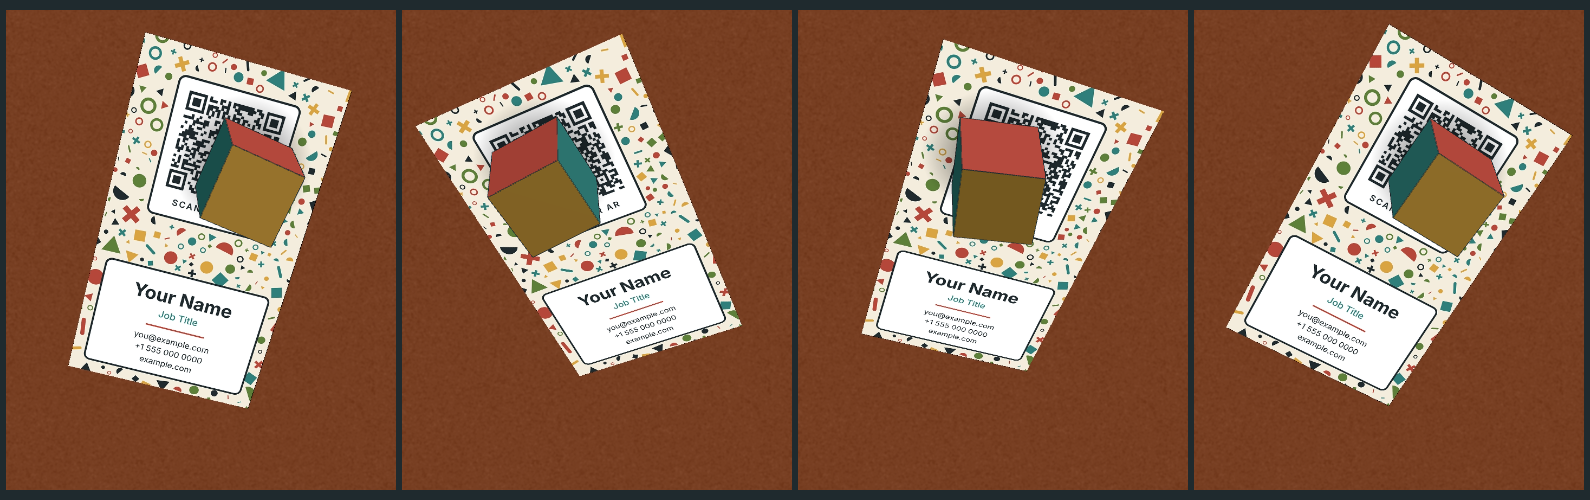
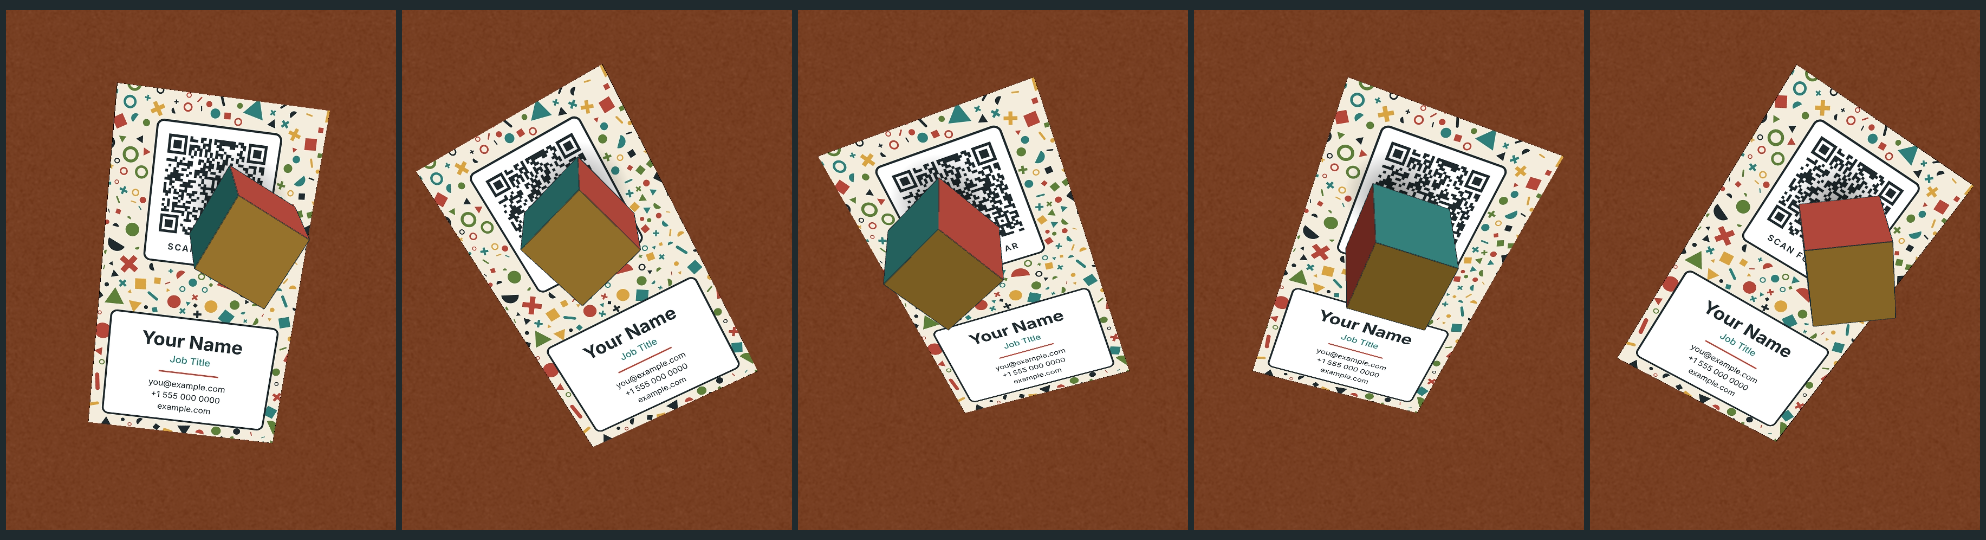
Float the cube above the QR code and spin it every 6 seconds
Claude-Session: https://claude.ai/code/session_01NYVZBJtp7zECDzej7YTrue

diff --git a/index.html b/index.html
@@ -88,13 +88,26 @@
     cube.add(new THREE.LineSegments(new THREE.EdgesGeometry(geo), new THREE.LineBasicMaterial({ color: '#1F2A2E' })));
     model.add(cube);
 
+    // Float above the QR code with a gentle bob, spinning one full turn every 6 s around the card's normal
+    const SPIN_PERIOD = 6, HOVER = CUBE * 0.6, BOB = CUBE * 0.12, BOB_PERIOD = 3;
+    const clock = new THREE.Clock();
+    const animate = () => {
+      const t = clock.getElapsedTime();
+      const lift = HOVER + BOB * Math.sin(t * 2 * Math.PI / BOB_PERIOD);
+      cube.position.z = CUBE / 2 + lift;
+      cube.rotation.z = t * 2 * Math.PI / SPIN_PERIOD;
+      const s = 1 - 0.35 * lift / (HOVER + BOB);
+      shadow.scale.set(s, s, 1);
+      shadow.material.opacity = 0.35 + 0.5 * s;
+    };
+
     const startEl = document.querySelector('#start'), msg = document.querySelector('#msg');
     document.querySelector('#go').addEventListener('click', async () => {
       msg.textContent = '';
       try {
         await mindar.start();
         startEl.remove();
-        renderer.setAnimationLoop(() => renderer.render(scene, camera));
+        renderer.setAnimationLoop(() => { animate(); renderer.render(scene, camera); });
       } catch (e) {
         msg.textContent = 'Could not open the camera. Check camera permission and try again.';
         console.error(e);
